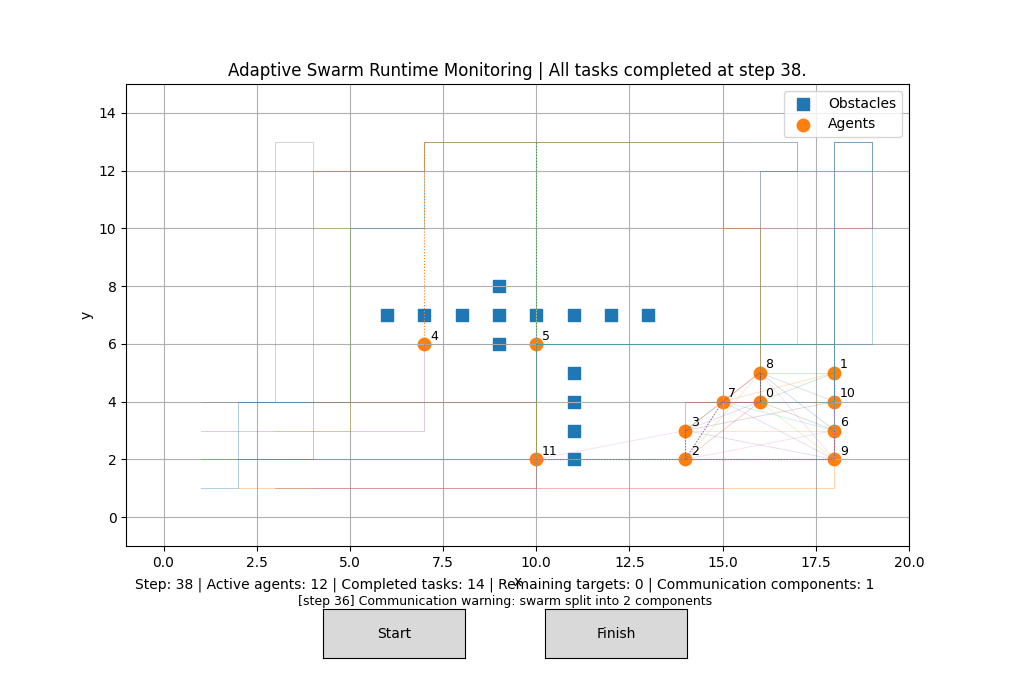
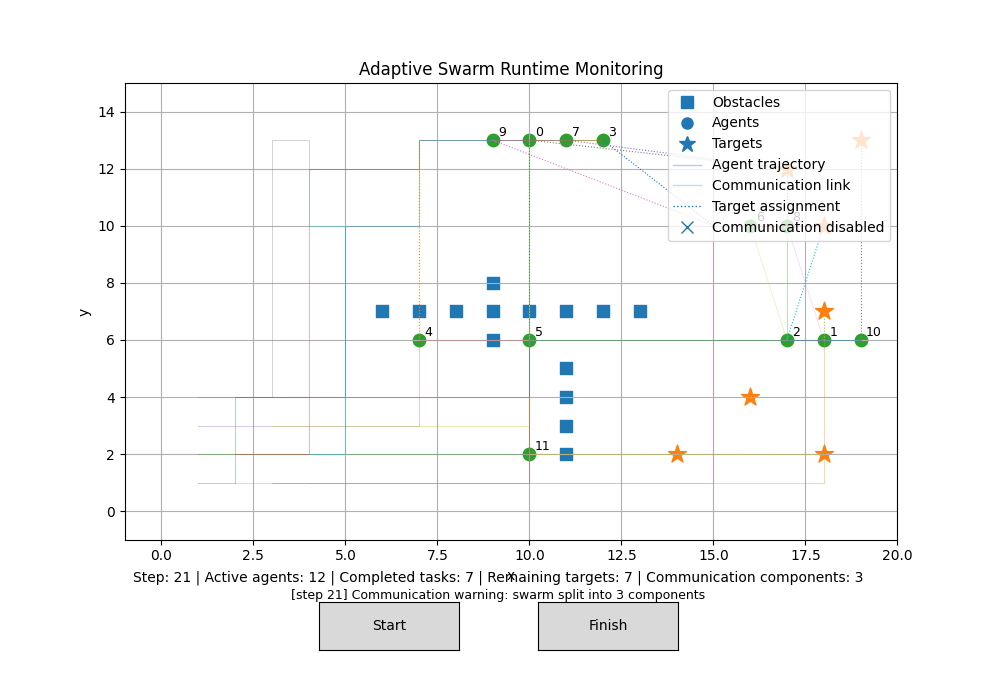
added legend for paths

diff --git a/swarm/interactive_visualization.py b/swarm/interactive_visualization.py
@@ -2,6 +2,8 @@ from __future__ import annotations
 
 from typing import Optional
 
+from matplotlib.lines import Line2D
+
 import matplotlib.pyplot as plt
 from matplotlib.animation import FuncAnimation
 from matplotlib.widgets import Button
@@ -95,7 +97,7 @@ class InteractiveSwarmView:
         self.axis.set_xlabel("x")
         self.axis.set_ylabel("y")
         self.axis.grid(True)
-        self.axis.legend(loc="upper right")
+        self._draw_custom_legend()
 
         self.status_text.set_text(self.simulation.monitor.get_latest_status())
         self.event_text.set_text(self.simulation.monitor.get_latest_event())
@@ -218,3 +220,18 @@ class InteractiveSwarmView:
                         linewidth=0.6,
                         alpha=0.25,
                     )
+
+
+    def _draw_custom_legend(self) -> None:
+        """Draw custom legend entries for all visual layers."""
+        legend_items = [
+            Line2D([0], [0], marker="s", linestyle="", markersize=8, label="Obstacles"),
+            Line2D([0], [0], marker="o", linestyle="", markersize=8, label="Agents"),
+            Line2D([0], [0], marker="*", linestyle="", markersize=12, label="Targets"),
+            Line2D([0], [0], linestyle="-", linewidth=1.0, alpha=0.35, label="Agent trajectory"),
+            Line2D([0], [0], linestyle="-", linewidth=1.0, alpha=0.25, label="Communication link"),
+            Line2D([0], [0], linestyle=":", linewidth=1.0, label="Target assignment"),
+            Line2D([0], [0], marker="x", linestyle="", markersize=8, label="Communication disabled"),
+        ]
+
+        self.axis.legend(handles=legend_items, loc="upper right")